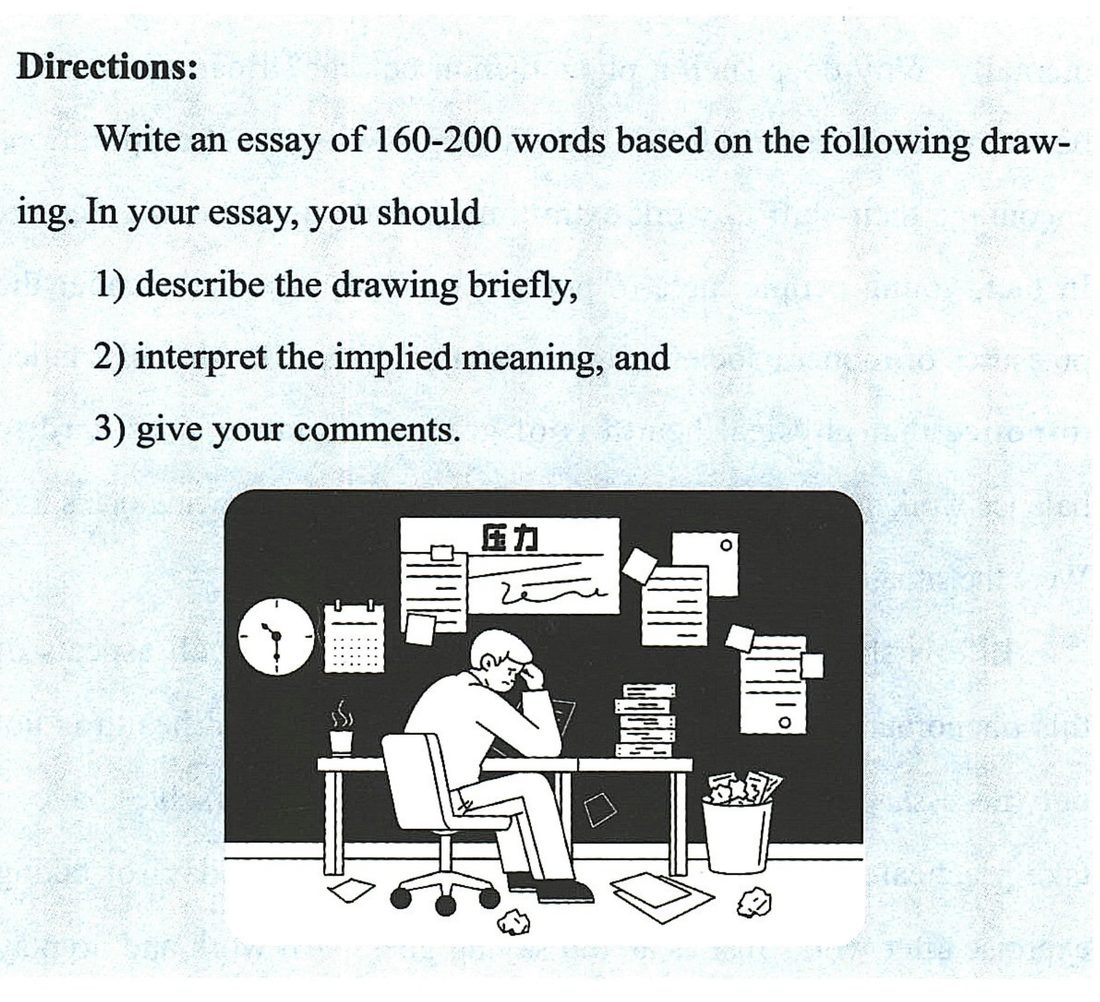
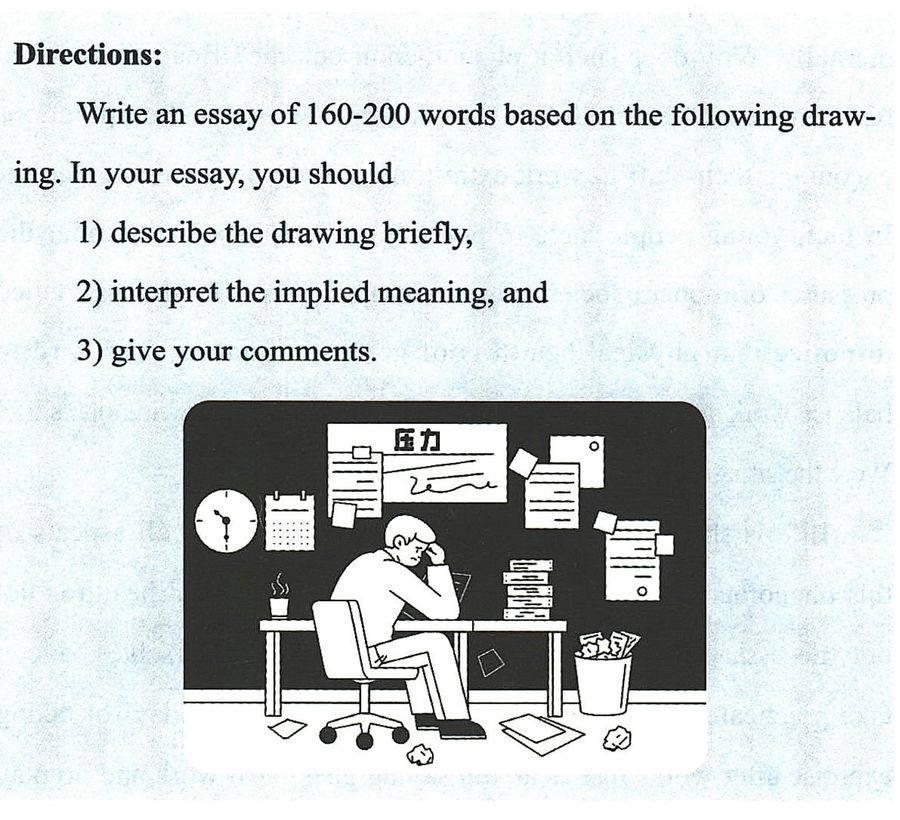
refine(yati): 图压缩至900px/CSS限高340px,删除来源标注文字

Changed region(s): [[0.56, 0.7012, 0.5911, 0.7622], [0.5911, 0.8537, 0.6222, 0.8841], [0.4044, 0.7927, 0.4356, 0.8232]]

diff --git a/pwa/css/style.css b/pwa/css/style.css
@@ -5333,15 +5333,14 @@ html.dark .rcw { color: #7fd4c8; }
     background: var(--primary-soft); border-radius: 6px; padding: 2px 8px;
 }
 .yt-card-title { font-weight: 700; color: var(--text); font-size: .95rem; }
-.yt-src { font-size: .76rem; color: var(--text-light); margin-left: auto; }
-.yt-card-arrow { color: var(--text-light); font-size: .85rem; transition: transform .15s; }
+.yt-card-arrow { color: var(--text-light); font-size: .85rem; margin-left: auto; transition: transform .15s; }
 .yt-card[open] .yt-card-arrow { transform: rotate(180deg); }
 .yt-card-body { padding: 0 14px 14px; border-top: 1px solid var(--border); }
 .yt-fig { margin: 12px 0 0; }
 .yt-fig a { display: block; }
 .yt-fig img {
-    display: block; max-width: 100%; width: auto; margin: 0 auto;
-    border: 1px solid var(--border); border-radius: 8px; background: #fff;
+    display: block; max-width: 100%; width: auto; max-height: 340px; margin: 0 auto;
+    border: 1px solid var(--border); border-radius: 8px; background: #fff; cursor: zoom-in;
 }
 .yt-fig figcaption { text-align: center; font-size: .76rem; color: var(--text-light); margin-top: 6px; }
 .yt-essay { margin-top: 12px; border: 1px solid var(--border); border-radius: 8px; overflow: hidden; }
@@ -5360,7 +5359,7 @@ html.dark .rcw { color: #7fd4c8; }
 .yt-foot { text-align: center; color: var(--text-light); font-size: .78rem; margin-top: 26px; }
 @media (max-width: 640px) {
     .yt-card-h { flex-wrap: wrap; gap: 6px 9px; padding: 10px; }
-    .yt-src { margin-left: 0; width: 100%; }
+    .yt-fig img { max-height: 260px; }
     .yt-card-title { font-size: .9rem; }
     .yt-essay-body { font-size: .88rem; padding: 11px; }
 }

diff --git a/pwa/js/yati.js b/pwa/js/yati.js
@@ -13,12 +13,11 @@ function ytRender() {
     const groups = YT.groups || [];
     host.innerHTML = groups.map((g, gi) => {
         const cards = (g.items || []).map(it => {
-            const src = it.src ? `<span class="yt-src">${ytEsc(it.src)}</span>` : '';
             const essay = (it.essay || '').trim();
             return `<details class="yt-card" id="ytQ_${it.no}">
                 <summary class="yt-card-h">
                     <span class="yt-no">${String(it.no).padStart(2, '0')}</span>
-                    <span class="yt-card-title">${ytEsc(it.title)}</span>${src}
+                    <span class="yt-card-title">${ytEsc(it.title)}</span>
                     <span class="yt-card-arrow">▾</span>
                 </summary>
                 <div class="yt-card-body">

diff --git a/pwa/sw.js b/pwa/sw.js
@@ -2,7 +2,7 @@
  * 预缓存全部页面/样式/脚本/题库/图标，安装后完全离线可用。
  * 升级题库或代码后：CACHE_VER 会随资源内容自动变化，客户端自动换新缓存。
  */
-const CACHE_VER = 'en2-86259f3a';
+const CACHE_VER = 'en2-73d52f29';
 
 const PRECACHE = [
     'index.html',

diff --git a/tools/build_yati.py b/tools/build_yati.py
@@ -43,10 +43,6 @@ for i in range(len(qdoc)):
     typ = next((t for t in type_order if t in txt), None)
     if not typ:
         continue
-    src = ''
-    ms = re.search(r'来源：([^\n]+)', txt)
-    if ms:
-        src = ms.group(1).strip()
     imgs = pg.get_images(full=True)
     if not imgs:
         continue
@@ -54,16 +50,17 @@ for i in range(len(qdoc)):
     info = qdoc.extract_image(xref)
     ext = info['ext']
     imgname = f"{num:02d}.jpg"
-    # 压缩：原图 1601px / ~600KB → 宽 1100 / quality 82（约 150KB），避免预缓存过大
+    # 压缩：原图 1601px → 宽 900 / quality 80（约 90KB）。
+    # 页面显示再由 CSS 限高，避免图太大撑满屏；点击大图仍看 900px 清晰版。
     im = Image.open(io.BytesIO(info['image'])).convert('RGB')
-    if im.width > 1100:
-        im = im.resize((1100, round(im.height * 1100 / im.width)), Image.LANCZOS)
+    if im.width > 900:
+        im = im.resize((900, round(im.height * 900 / im.width)), Image.LANCZOS)
     buf = io.BytesIO()
-    im.save(buf, 'JPEG', quality=82, optimize=True)
+    im.save(buf, 'JPEG', quality=80, optimize=True)
     with open(os.path.join(IMGDIR, imgname), 'wb') as f:
         f.write(buf.getvalue())
     questions[num] = {
-        'no': num, 'title': title, 'type': typ, 'src': src,
+        'no': num, 'title': title, 'type': typ,
         'img': f"data/yati/{imgname}",
         'typeRank': type_order[typ],
     }
@@ -110,7 +107,7 @@ for t in seen:
     items = [q for q in ordered if q['type'] == t]
     out['groups'].append({
         'id': 't' + str(type_order[t]), 'name': t, 'type': t,
-        'items': [{k: q[k] for k in ('no', 'title', 'img', 'essay', 'src')} for q in items],
+        'items': [{k: q[k] for k in ('no', 'title', 'img', 'essay')} for q in items],
     })
 
 with open(os.path.join(PWA, 'data', 'yati.json'), 'w', encoding='utf-8') as f:
